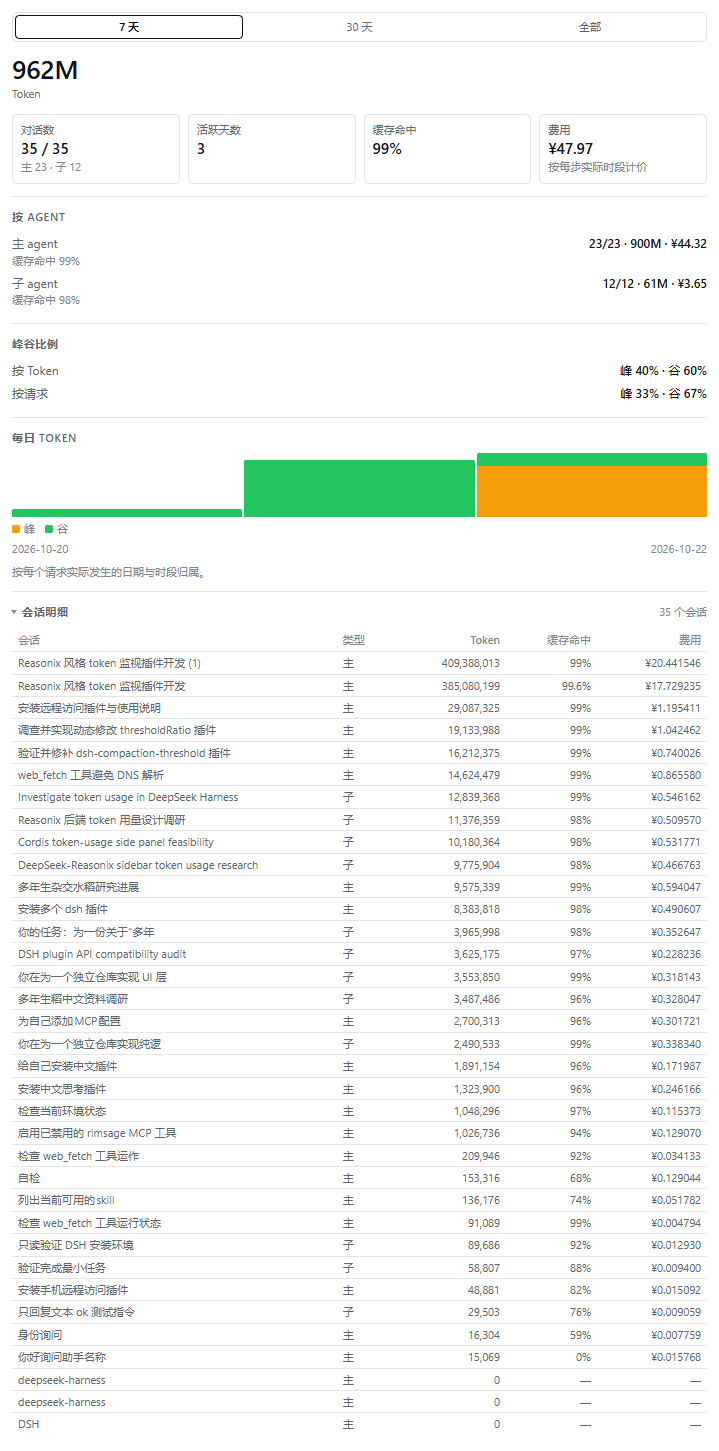
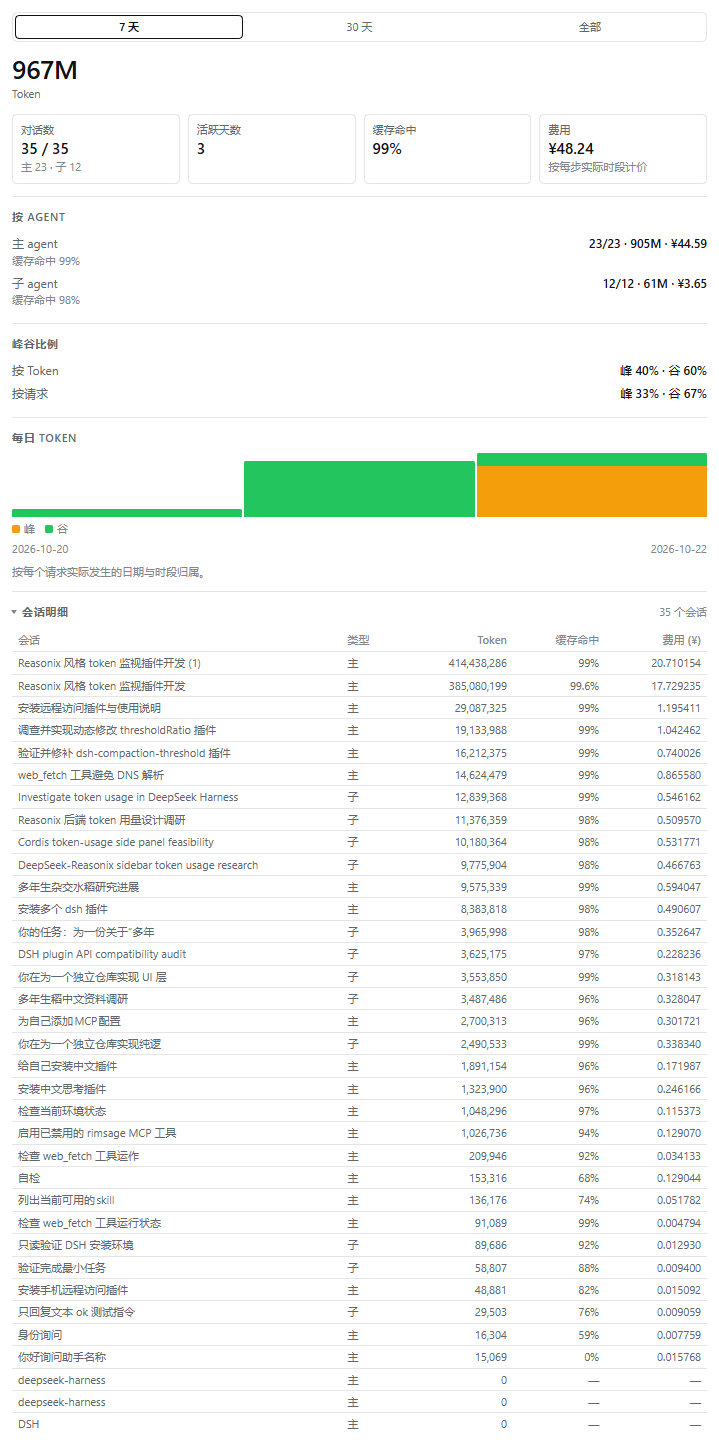
feat: name the currency in the session cost header

diff --git a/dist/client.js b/dist/client.js
@@ -1068,14 +1068,19 @@ function formatMoney(micros, currency) {
     maximumFractionDigits: fractionDigits
   }).format(amount);
 }
-function formatMoneyFixed(micros, currency, fractionDigits) {
+function formatAmountFixed(micros, fractionDigits) {
   return new Intl.NumberFormat("en-US", {
-    style: "currency",
-    currency,
-    currencyDisplay: "narrowSymbol",
     minimumFractionDigits: fractionDigits,
     maximumFractionDigits: fractionDigits
   }).format(micros / 1e6);
+}
+function currencySymbol(currency) {
+  const parts = new Intl.NumberFormat("en-US", {
+    style: "currency",
+    currency,
+    currencyDisplay: "narrowSymbol"
+  }).formatToParts(0);
+  return parts.find((part) => part.type === "currency")?.value ?? currency;
 }
 function formatMoneyRange(micros, microsMax, currency) {
   const low = formatMoney(micros, currency);
@@ -2267,9 +2272,15 @@ function hitRateText(rate) {
 }
 function sessionCostText(cost) {
   if (cost === null) return "\u2014";
-  const low = formatMoneyFixed(cost.amountMicros, cost.currency, 6);
+  const low = formatAmountFixed(cost.amountMicros, 6);
   if (cost.amountMicrosMax === void 0 || cost.amountMicrosMax === cost.amountMicros) return low;
-  return `${low} \u2013 ${formatMoneyFixed(cost.amountMicrosMax, cost.currency, 6)}`;
+  return `${low} \u2013 ${formatAmountFixed(cost.amountMicrosMax, 6)}`;
+}
+function sessionsCurrency(sessions) {
+  for (const row of sessions) {
+    if (row.cost !== null) return row.cost.currency;
+  }
+  return null;
 }
 function HistoryPanel(props) {
   const { view, t, range, onRange, backfill, onBackfill } = props;
@@ -2281,6 +2292,7 @@ function HistoryPanel(props) {
     ["all", t("history.range.all")]
   ];
   const empty = view.totalTokens === 0 && view.sessionCount === 0;
+  const costCurrency = sessionsCurrency(view.sessions);
   return /* @__PURE__ */ (0, import_jsx_runtime3.jsxs)("div", { className: "dsu-root", children: [
     /* @__PURE__ */ (0, import_jsx_runtime3.jsx)(StyleTag, {}),
     /* @__PURE__ */ (0, import_jsx_runtime3.jsx)("div", { className: "dsu-range", role: "group", "aria-label": t("section.history"), children: rangeOptions.map(([value, label]) => /* @__PURE__ */ (0, import_jsx_runtime3.jsx)(
@@ -2371,7 +2383,7 @@ function HistoryPanel(props) {
             /* @__PURE__ */ (0, import_jsx_runtime3.jsx)("th", { children: t("sessions.kind") }),
             /* @__PURE__ */ (0, import_jsx_runtime3.jsx)("th", { className: "dsu-num", children: t("sessions.tokens") }),
             /* @__PURE__ */ (0, import_jsx_runtime3.jsx)("th", { className: "dsu-num", children: t("sessions.cache") }),
-            /* @__PURE__ */ (0, import_jsx_runtime3.jsx)("th", { className: "dsu-num", children: t("sessions.cost") })
+            /* @__PURE__ */ (0, import_jsx_runtime3.jsx)("th", { className: "dsu-num", children: costCurrency === null ? t("sessions.cost") : `${t("sessions.cost")} (${currencySymbol(costCurrency)})` })
           ] }) }),
           /* @__PURE__ */ (0, import_jsx_runtime3.jsx)("tbody", { children: view.sessions.map((row) => /* @__PURE__ */ (0, import_jsx_runtime3.jsxs)("tr", { children: [
             /* @__PURE__ */ (0, import_jsx_runtime3.jsx)("td", { className: "dsu-session-title", title: row.title, children: row.title }),

diff --git a/src/client/HistoryPanel.tsx b/src/client/HistoryPanel.tsx
@@ -6,9 +6,9 @@
  * control for conversations whose usage was never cached.
  */
 import type { JSX } from 'react'
-import type { AgentTotals, CostView, HistoryPanelProps, HistoryRange } from './contract'
+import type { AgentTotals, CostView, HistoryPanelProps, HistoryRange, HistorySessionRow } from './contract'
 import {
-  formatCount, formatMoneyFixed, formatMoneyRange, formatPercent, formatTokenCount, formatTokens,
+  currencySymbol, formatAmountFixed, formatCount, formatMoneyRange, formatPercent, formatTokenCount, formatTokens,
 } from '../lib/format'
 import { bandShareText, DailyBars, InlineMessage, Row, Section, Stat, StyleTag } from './components'
 
@@ -40,16 +40,29 @@ function hitRateText(rate: number | null): string {
 }
 
 /**
- * Render one conversation's cost with aligned decimals.
+ * Render one conversation's cost with aligned decimals, without its currency mark.
  *
  * @param cost - priced amount, or null when unpriced.
  * @returns the amount with six decimals, its two-band range, or an em dash.
  */
 function sessionCostText(cost: CostView | null): string {
   if (cost === null) return '—'
-  const low = formatMoneyFixed(cost.amountMicros, cost.currency, 6)
+  const low = formatAmountFixed(cost.amountMicros, 6)
   if (cost.amountMicrosMax === undefined || cost.amountMicrosMax === cost.amountMicros) return low
-  return `${low} – ${formatMoneyFixed(cost.amountMicrosMax, cost.currency, 6)}`
+  return `${low} – ${formatAmountFixed(cost.amountMicrosMax, 6)}`
+}
+
+/**
+ * Read the currency of the first priced conversation row.
+ *
+ * @param sessions - per-conversation rows.
+ * @returns the ISO code, or null when nothing was priced.
+ */
+function sessionsCurrency(sessions: readonly HistorySessionRow[]): string | null {
+  for (const row of sessions) {
+    if (row.cost !== null) return row.cost.currency
+  }
+  return null
 }
 
 /**
@@ -68,6 +81,7 @@ export function HistoryPanel(props: HistoryPanelProps): JSX.Element {
     ['all', t('history.range.all')],
   ]
   const empty = view.totalTokens === 0 && view.sessionCount === 0
+  const costCurrency = sessionsCurrency(view.sessions)
   return (
     <div className="dsu-root">
       <StyleTag />
@@ -171,7 +185,11 @@ export function HistoryPanel(props: HistoryPanelProps): JSX.Element {
                         <th>{t('sessions.kind')}</th>
                         <th className="dsu-num">{t('sessions.tokens')}</th>
                         <th className="dsu-num">{t('sessions.cache')}</th>
-                        <th className="dsu-num">{t('sessions.cost')}</th>
+                        <th className="dsu-num">
+                          {costCurrency === null
+                            ? t('sessions.cost')
+                            : `${t('sessions.cost')} (${currencySymbol(costCurrency)})`}
+                        </th>
                       </tr>
                     </thead>
                     <tbody>

diff --git a/src/lib/format.ts b/src/lib/format.ts
@@ -161,6 +161,38 @@ export function formatMoneyFixed(micros: number, currency: string, fractionDigit
 }
 
 /**
+ * Format an amount without its currency mark.
+ *
+ * A column that states its currency in the header keeps the cells to digits,
+ * which lines the decimal points up without a repeated symbol.
+ *
+ * @param micros - amount in micro units (1e-6 of the currency).
+ * @param fractionDigits - exact digits after the decimal point.
+ * @returns `"20.040"`.
+ */
+export function formatAmountFixed(micros: number, fractionDigits: number): string {
+  return new Intl.NumberFormat('en-US', {
+    minimumFractionDigits: fractionDigits,
+    maximumFractionDigits: fractionDigits,
+  }).format(micros / 1_000_000)
+}
+
+/**
+ * Read the narrow currency symbol of one ISO 4217 code.
+ *
+ * @param currency - ISO 4217 code, for example `CNY`.
+ * @returns the symbol, for example `¥`.
+ */
+export function currencySymbol(currency: string): string {
+  const parts = new Intl.NumberFormat('en-US', {
+    style: 'currency',
+    currency,
+    currencyDisplay: 'narrowSymbol',
+  }).formatToParts(0)
+  return parts.find(part => part.type === 'currency')?.value ?? currency
+}
+
+/**
  * Format a cost amount that may span two billing bands.
  *
  * A table with peak and off-peak rates cannot attribute a cumulative total to

diff --git a/tests/format.test.ts b/tests/format.test.ts
@@ -1,5 +1,7 @@
 import { describe, expect, it } from 'vitest'
 import {
+  currencySymbol,
+  formatAmountFixed,
   formatBeijingTime,
   formatCount,
   formatDuration,
@@ -166,6 +168,21 @@ describe('formatMoneyFixed', () => {
   it('rounds to the requested width instead of keeping extra digits', () => {
     expect(formatMoneyFixed(12_345, 'USD', 3)).toBe('$0.012')
     expect(formatMoneyFixed(1_234_567, 'USD', 2)).toBe('$1.23')
+  })
+})
+
+describe('formatAmountFixed', () => {
+  it('keeps digits only, at a fixed fraction width', () => {
+    expect(formatAmountFixed(20_441_546, 6)).toBe('20.441546')
+    expect(formatAmountFixed(4_794, 6)).toBe('0.004794')
+    expect(formatAmountFixed(0, 6)).toBe('0.000000')
+  })
+})
+
+describe('currencySymbol', () => {
+  it('returns the narrow symbol of the code', () => {
+    expect(currencySymbol('CNY')).toBe('¥')
+    expect(currencySymbol('USD')).toBe('$')
   })
 })
 

diff --git a/README.md b/README.md
@@ -34,7 +34,7 @@
 - 区间切换：最近 7 天 / 30 天 / 全部。
 - 总 Token、对话数（已统计 / 总数，附「主 N · 子 M」拆分）、活跃天数、缓存命中率、费用。
 - **按 agent**：主对话与子代理分别列出会话数、Token、各自缓存命中率与费用。
-- **会话明细**（默认折叠，点击展开）：逐会话列出标题、主 / 子类型、Token 总量（精确到个位，千分位分隔）、缓存命中率与费用（统一六位小数，微元精度，便于按列对齐），按 Token 降序。
+- **会话明细**（默认折叠，点击展开）：逐会话列出标题、主 / 子类型、Token 总量（精确到个位，千分位分隔）、缓存命中率与费用（表头标注货币单位如 `费用 (¥)`，单元格只留数字并统一六位小数，微元精度），按 Token 降序。
 - **峰谷比例**：按 Token 与按请求分别给出高峰/空闲占比（仅统计有峰谷明细的会话，缺失时注明）。
 - 每日 Token 柱状图用两种颜色堆叠显示峰谷：橙色为高峰、绿色为空闲，图例随图给出；有分步数据的会话按请求实际发生日期与时段归集，否则回退到「最后活动日」并用灰色标为未分类。
 - 缺少分步数据的会话会自动补齐（数量较多时提供「补齐」按钮）。

diff --git a/README.EN.md b/README.EN.md
@@ -65,8 +65,9 @@ The plugin adds two right-Sidebar pages.
 - **By agent**: root conversations and subagents each list their conversation count, tokens,
   their own cache-hit rate, and cost.
 - **Session detail** (collapsed by default): one row per conversation with its title, root or
-  subagent kind, exact grouped token total, cache-hit rate and cost (six decimals at micro
-  precision, so the column aligns), ordered by tokens.
+  subagent kind, exact grouped token total, cache-hit rate and cost (the header names the
+  currency, for example `Cost (¥)`; cells keep digits only at six decimals, so the column
+  aligns), ordered by tokens.
 - **Peak / off-peak share**: by tokens and by requests, counting only conversations that
   carry a band rollup and saying so when some do not.
 - Daily token chart: bars stack the peak (amber) and off-peak (green) tokens with a legend.
